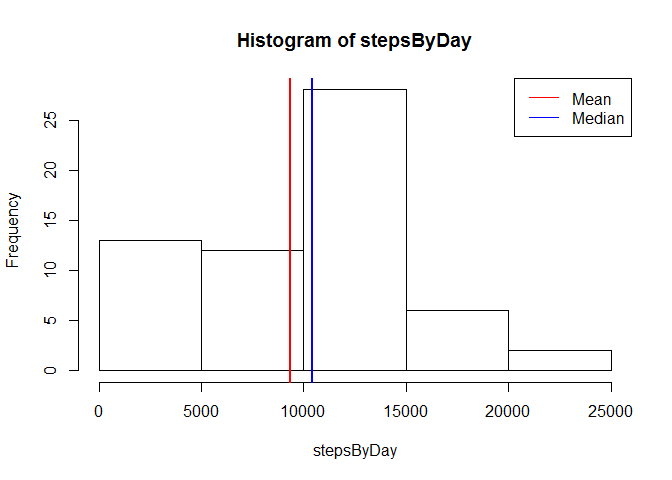
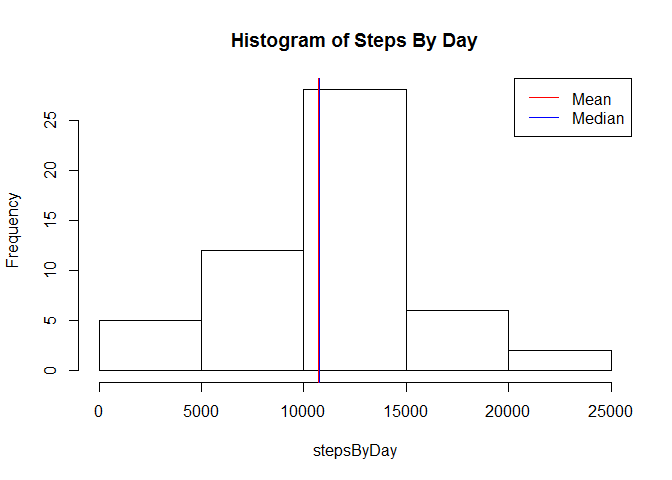
Completed version
1. Code for reading in the dataset and/or processing the data
2. Histogram of the total number of steps taken each day
3. Mean and median number of steps taken each day
4. Time series plot of the average number of steps taken
5. The 5-minute interval that, on average, contains the maximum number
of steps
6. Code to describe and show a strategy for imputing missing data
7. Histogram of the total number of steps taken each day after missing
values are imputed
8. Panel plot comparing the average number of steps taken per 5-minute
interval across weekdays and weekends
9. All of the R code needed to reproduce the results (numbers, plots,
etc.) in the report

Changed region(s): [[0.3438, 0.0625, 0.7188, 0.125]]

diff --git a/PA1_template.html b/PA1_template.html
@@ -124,13 +124,12 @@ $(document).ready(function () {
 
 <div id="loading-and-preprocessing-the-data" class="section level2">
 <h2>Loading and preprocessing the data</h2>
-<p>Fist the data must be loaded. For convenience use the variable <em>activity</em> to store the data.<br />
-Then use <strong>dim</strong> to show the dimensions of <em>activity</em>.</p>
+<ol style="list-style-type: decimal">
+<li>Load the data.</li>
+</ol>
 <pre class="r"><code>activity &lt;- read.table(unz(&quot;activity.zip&quot;, &quot;activity.csv&quot;), header=T, sep=&quot;,&quot;, na.strings = c(&quot;NA&quot;))
 dim(activity)</code></pre>
 <pre><code>## [1] 17568     3</code></pre>
-<p>As you can see, 17568 rows with 3 columns (steps, date, interval) where loaded.</p>
-<p>The data has the following structure:</p>
 <pre class="r"><code>summary(activity)</code></pre>
 <pre><code>##      steps                date          interval     
 ##  Min.   :  0.00   2012-10-01:  288   Min.   :   0.0  
@@ -140,24 +139,37 @@ dim(activity)</code></pre>
 ##  3rd Qu.: 12.00   2012-10-05:  288   3rd Qu.:1766.2  
 ##  Max.   :806.00   2012-10-06:  288   Max.   :2355.0  
 ##  NA's   :2304     (Other)   :15840</code></pre>
-<p>Aditionaly we need a correct format for <em>date</em> column:</p>
+<p>As you can see, 17568 rows with 3 columns (steps, date, interval) where loaded.</p>
+<ol start="2" style="list-style-type: decimal">
+<li>Process/transform the data (if necessary) into a format suitable for your analysis.</li>
+</ol>
+<p>Update the format for <em>date</em> column:</p>
 <pre class="r"><code>activity$date &lt;- as.Date(as.character(activity$date), &quot;%Y-%m-%d&quot;)</code></pre>
 </div>
 <div id="what-is-mean-total-number-of-steps-taken-per-day" class="section level2">
 <h2>What is mean total number of steps taken per day?</h2>
 <p>Lets ignore the missing values.</p>
-<pre class="r"><code>activity1 &lt;- na.omit(activity)</code></pre>
-<p>Calculate the total number of steps taken per day.</p>
+<pre class="r"><code>activity1 &lt;- na.omit(activity)
+dim(activity1)</code></pre>
+<pre><code>## [1] 15264     3</code></pre>
+<ol style="list-style-type: decimal">
+<li>Calculate the total number of steps taken per day.</li>
+</ol>
 <pre class="r"><code>stepsByDay &lt;- with(activity1, tapply(steps, as.factor(date), sum, na.rm = TRUE))
 summary(stepsByDay, digits=5)</code></pre>
 <pre><code>##    Min. 1st Qu.  Median    Mean 3rd Qu.    Max. 
 ##      41    8841   10765   10766   13294   21194</code></pre>
-<p>Then make a histogram.</p>
+<ol start="2" style="list-style-type: decimal">
+<li>Make a histogram of the total number of steps taken each day.</li>
+</ol>
 <pre class="r"><code>hist(stepsByDay, main = &quot;Histogram of Steps By Day&quot;)
 abline(v = mean(stepsByDay), lwd = 2, col = &quot;red&quot;)
 abline(v = median(stepsByDay), lwd = 1, col = &quot;blue&quot;)
 legend(&quot;topright&quot;, lwd = 1, col = c(&quot;red&quot;, &quot;blue&quot;), legend = c(&quot;Mean&quot;, &quot;Median&quot;))</code></pre>
[1 lines of base64/hex data omitted]
+<ol start="3" style="list-style-type: decimal">
+<li>Calculate and report the mean and median of the total number of steps taken per day.</li>
+</ol>
 <p>The mean (10766) and the median (10765) are shown in the same position.</p>
 </div>
 <div id="what-is-the-average-daily-activity-pattern" class="section level2">
@@ -166,12 +178,17 @@ legend(&quot;topright&quot;, lwd = 1, col = c(&quot;red&quot;, &quot;blue&quot;)
 <pre class="r"><code>StepsByInterval &lt;- aggregate(steps ~ interval, data = activity1, mean)</code></pre>
 <p>Next calculate the 5-minute interval that contains the max-average number of steps.</p>
 <pre class="r"><code>MaxSBI &lt;- StepsByInterval[StepsByInterval$steps == max(StepsByInterval$steps),]$interval</code></pre>
-<p>Finally make the plot.</p>
+<ol style="list-style-type: decimal">
+<li>Make a time series plot of the 5-minute interval (x-axis) and the average number of steps taken, averaged across all days (y-axis)</li>
+</ol>
 <pre class="r"><code>with(StepsByInterval, plot(interval, steps, type = &quot;l&quot;, main = &quot;Average Daily Activity Pattern&quot;, 
                               xlab = &quot;5-minute Interval&quot;, ylab = &quot;Average Steps&quot;))
 abline(v = MaxSBI, lwd = 1, col = &quot;red&quot;)
 legend(&quot;topright&quot;, lwd = 1, col = c(&quot;red&quot;), legend = c(paste(&quot;Max = &quot;, MaxSBI)))</code></pre>
[1 lines of base64/hex data omitted]
+<ol start="2" style="list-style-type: decimal">
+<li>Which 5-minute interval, on average across all the days in the dataset, contains the maximum number of steps?</li>
+</ol>
 <p>As the graphic show, the 5-minute interval, on average across all the days in the dataset, that contains the maximum number of steps is the <strong>835</strong>.</p>
 </div>
 <div id="imputing-missing-values" class="section level2">
@@ -186,12 +203,14 @@ legend(&quot;topright&quot;, lwd = 1, col = c(&quot;red&quot;), legend = c(paste
 <pre class="r"><code>nrow(activity[is.na(activity$steps),])</code></pre>
 <pre><code>## [1] 2304</code></pre>
 <ol start="2" style="list-style-type: decimal">
-<li>Devise a strategy for filling in all of the missing values in the dataset. Use the mean for that 5-minute interval for filling the missing values:</li>
+<li>Devise a strategy for filling in all of the missing values in the dataset.</li>
 </ol>
-<p>For this job I use this function:</p>
+<p>Stretegy selected: <em>Use the mean for that 5-minute interval for filling the missing values:</em></p>
+<p>Use this custom function:</p>
 <pre class="r"><code>MyFillNA &lt;- function(act, meanSBI) {
     for(i in 1:nrow(act)) {
         if (is.na(act$steps[i])) {
+            ## If step is NA, assing mean steps for the corresponding interval
             act$steps[i] = meanSBI[meanSBI$interval == act[i,]$interval, ]$steps
         }
     }
@@ -201,7 +220,9 @@ legend(&quot;topright&quot;, lwd = 1, col = c(&quot;red&quot;), legend = c(paste
 <li>Create a new dataset that is equal to the original dataset but with the missing data filled in:</li>
 </ol>
 <pre class="r"><code>activity2 &lt;- MyFillNA(activity, StepsByInterval)
-summary(activity2)</code></pre>
+dim(activity2)</code></pre>
+<pre><code>## [1] 17568     3</code></pre>
+<pre class="r"><code>summary(activity2)</code></pre>
 <pre><code>##      steps             date               interval     
 ##  Min.   :  0.00   Min.   :2012-10-01   Min.   :   0.0  
 ##  1st Qu.:  0.00   1st Qu.:2012-10-16   1st Qu.: 588.8  
@@ -212,8 +233,9 @@ summary(activity2)</code></pre>
 <ol start="4" style="list-style-type: decimal">
 <li>Make a histogram of the total number of steps taken each day and Calculate and report the mean and median total number of steps taken per day.</li>
 </ol>
+<p>Calculate the total number of steps taken per day.</p>
 <pre class="r"><code>stepsByDay2 &lt;- with(activity2, tapply(steps, as.factor(date), sum))</code></pre>
-<p>Then make a histogram.</p>
+<p>Make the histogram.</p>
 <pre class="r"><code>hist(stepsByDay2, main = &quot;Histogram of Steps By Day&quot;)
 abline(v = mean(stepsByDay2), lwd = 2, col = &quot;red&quot;)
 abline(v = median(stepsByDay2), lwd = 1, col = &quot;blue&quot;)
@@ -221,10 +243,24 @@ legend(&quot;topright&quot;, lwd = 1, col = c(&quot;red&quot;, &quot;blue&quot;)
[1 lines of base64/hex data omitted]
 <p>The mean (10766) and the median (10766) are shown in the same position.</p>
 <p><strong>These values does NOT differ from the estimates from the first part of the assignment</strong>. Remember the values: mean = 10766, and median = 10765.</p>
-<p>The impact of imputing missing data on the estimates of the total daily number of steps is NONE.</p>
+<p>The impact of imputing missing data on the estimates of the total daily number of steps is <strong>NONE</strong>.</p>
 </div>
 <div id="are-there-differences-in-activity-patterns-between-weekdays-and-weekends" class="section level2">
 <h2>Are there differences in activity patterns between weekdays and weekends?</h2>
+<p>Using the dataset with the fillen-in missing values (<em>activity2</em>).</p>
+<ol style="list-style-type: decimal">
+<li>Create a new factor variable in the dataset with two levels indicating whether a given date is a weekday or weekend day.</li>
+</ol>
+<pre class="r"><code>activity2$isWeekend &lt;- format(activity2$date, &quot;%u&quot;) %in% c(6, 7)
+activity2$DayType &lt;- factor(activity2$isWeekend,labels=c(&quot;weekend&quot;,&quot;weekday&quot;))
+StepsByInterval2 &lt;- aggregate(steps ~ interval + DayType, data = activity2, mean)</code></pre>
+<ol start="2" style="list-style-type: decimal">
+<li>Make a panel plot containing a time series plot (i.e. type = “l”) of the 5-minute interval (x-axis) and the average number of steps taken, averaged across all weekday days or weekend days (y-axis).</li>
+</ol>
+<pre class="r"><code>library(ggplot2)
+g &lt;- ggplot(StepsByInterval2, aes(interval, steps)) + geom_line() + facet_grid(. ~ DayType)
+g + labs(title = &quot;Differences in Activity Patterns Between Weekdays and Weekends&quot;, x = &quot;5-minute Interval&quot;, y = &quot;Average Steps&quot;)</code></pre>
[1 lines of base64/hex data omitted]
 </div>
 
 

diff --git a/PA1_template.md b/PA1_template.md
@@ -5,8 +5,7 @@ Guillermo Pachón
 
 ## Loading and preprocessing the data
 
-Fist the data must be loaded. For convenience use the variable *activity* to store the data.  
-Then use **dim** to show the dimensions of *activity*.
+1. Load the data.
 
 
 ```r
@@ -17,11 +16,6 @@ dim(activity)
 ```
 ## [1] 17568     3
 ```
-
-As you can see, 17568 rows with 3 columns (steps, date, interval) where loaded.
-
-The data has the following structure:
-
 
 ```r
 summary(activity)
@@ -38,7 +32,12 @@ summary(activity)
 ##  NA's   :2304     (Other)   :15840
 ```
 
-Aditionaly we need a correct format for *date* column:
+As you can see, 17568 rows with 3 columns (steps, date, interval) where loaded.
+
+2. Process/transform the data (if necessary) into a format suitable for your analysis.
+
+Update the format for *date* column:
+
 
 ```r
 activity$date <- as.Date(as.character(activity$date), "%Y-%m-%d")
@@ -51,9 +50,14 @@ Lets ignore the missing values.
 
 ```r
 activity1 <- na.omit(activity)
+dim(activity1)
 ```
 
-Calculate the total number of steps taken per day.  
+```
+## [1] 15264     3
+```
+
+1. Calculate the total number of steps taken per day.
 
 
 ```r
@@ -66,7 +70,7 @@ summary(stepsByDay, digits=5)
 ##      41    8841   10765   10766   13294   21194
 ```
 
-Then make a histogram.
+2. Make a histogram of the total number of steps taken each day.
 
 
 ```r
@@ -76,7 +80,9 @@ abline(v = median(stepsByDay), lwd = 1, col = "blue")
 legend("topright", lwd = 1, col = c("red", "blue"), legend = c("Mean", "Median"))
 ```
 
-![](PA1_template_files/figure-html/unnamed-chunk-6-1.png)<!-- -->
+![](PA1_template_files/figure-html/unnamed-chunk-5-1.png)<!-- -->
+
+3. Calculate and report the mean and median of the total number of steps taken per day.
 
 The mean (10766) and the median (10765) 
 are shown in the same position.
@@ -98,7 +104,7 @@ Next calculate the 5-minute interval that contains the max-average number of ste
 MaxSBI <- StepsByInterval[StepsByInterval$steps == max(StepsByInterval$steps),]$interval
 ```
 
-Finally make the plot.
+1. Make a time series plot of the 5-minute interval (x-axis) and the average number of steps taken, averaged across all days (y-axis)
 
 
 ```r
@@ -108,7 +114,9 @@ abline(v = MaxSBI, lwd = 1, col = "red")
 legend("topright", lwd = 1, col = c("red"), legend = c(paste("Max = ", MaxSBI)))
 ```
 
-![](PA1_template_files/figure-html/unnamed-chunk-9-1.png)<!-- -->
+![](PA1_template_files/figure-html/unnamed-chunk-8-1.png)<!-- -->
+
+2. Which 5-minute interval, on average across all the days in the dataset, contains the maximum number of steps?
 
 As the graphic show, the 5-minute interval, on average across all the days in the dataset, 
 that contains the maximum number of steps is the **835**.
@@ -140,15 +148,17 @@ nrow(activity[is.na(activity$steps),])
 ```
 
 2. Devise a strategy for filling in all of the missing values in the dataset.
-Use the mean for that 5-minute interval for filling the missing values:
 
-For this job I use this function:
+Stretegy selected: *Use the mean for that 5-minute interval for filling the missing values:*
+
+Use this custom function:
 
 
 ```r
 MyFillNA <- function(act, meanSBI) {
     for(i in 1:nrow(act)) {
         if (is.na(act$steps[i])) {
+            ## If step is NA, assing mean steps for the corresponding interval
             act$steps[i] = meanSBI[meanSBI$interval == act[i,]$interval, ]$steps
         }
     }
@@ -161,6 +171,14 @@ MyFillNA <- function(act, meanSBI) {
 
 ```r
 activity2 <- MyFillNA(activity, StepsByInterval)
+dim(activity2)
+```
+
+```
+## [1] 17568     3
+```
+
+```r
 summary(activity2)
 ```
 
@@ -177,12 +195,14 @@ summary(activity2)
 4. Make a histogram of the total number of steps taken each day and Calculate and report the mean
 and median total number of steps taken per day.
 
+Calculate the total number of steps taken per day.
+
 
 ```r
 stepsByDay2 <- with(activity2, tapply(steps, as.factor(date), sum))
 ```
 
-Then make a histogram.
+Make the histogram.
 
 
 ```r
@@ -192,13 +212,36 @@ abline(v = median(stepsByDay2), lwd = 1, col = "blue")
 legend("topright", lwd = 1, col = c("red", "blue"), legend = c("Mean", "Median"))
 ```
 
-![](PA1_template_files/figure-html/unnamed-chunk-15-1.png)<!-- -->
+![](PA1_template_files/figure-html/unnamed-chunk-14-1.png)<!-- -->
 
 The mean (10766) and the median (10766) 
 are shown in the same position.
 
 **These values does NOT differ from the estimates from the first part of the assignment**. Remember the values: mean = 10766, and median = 10765. 
 
-The impact of imputing missing data on the estimates of the total daily number of steps is NONE.
+The impact of imputing missing data on the estimates of the total daily number of steps is **NONE**.
 
 ## Are there differences in activity patterns between weekdays and weekends?
+
+Using the dataset with the fillen-in missing values (*activity2*).
+
+1. Create a new factor variable in the dataset with two levels indicating whether a given date is a weekday or weekend day.
+
+
+```r
+activity2$isWeekend <- format(activity2$date, "%u") %in% c(6, 7)
+activity2$DayType <- factor(activity2$isWeekend,labels=c("weekend","weekday"))
+StepsByInterval2 <- aggregate(steps ~ interval + DayType, data = activity2, mean)
+```
+
+2. Make a panel plot containing a time series plot (i.e. type = "l") of the 5-minute interval (x-axis) and the average number of steps taken, averaged across all weekday days or weekend days (y-axis).
+
+
+```r
+library(ggplot2)
+g <- ggplot(StepsByInterval2, aes(interval, steps)) + geom_line() + facet_grid(. ~ DayType)
+g + labs(title = "Differences in Activity Patterns Between Weekdays and Weekends", x = "5-minute Interval", y = "Average Steps")
+```
+
+![](PA1_template_files/figure-html/unnamed-chunk-16-1.png)<!-- -->
+
